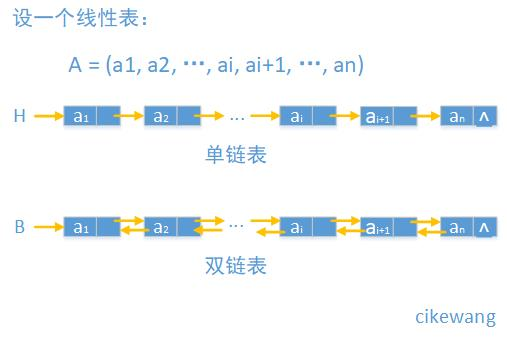
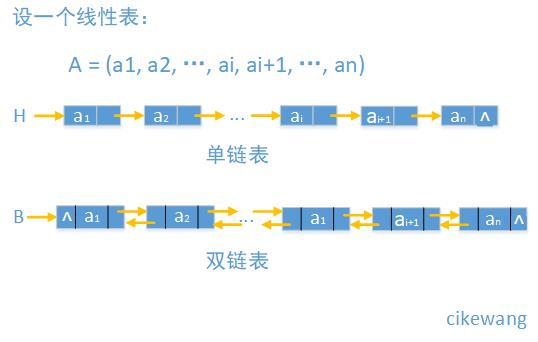
循环链表

diff --git a/02_LinkedList/README.md b/02_LinkedList/README.md
@@ -33,25 +33,33 @@ struct DNode {
 };
 ~~~
 >插入结点：设p和q分配是具有DNode*类型的指针变量，若在双链表中p结点之后插入一个q结点，则需要修改4个指针域的值
->1. 使p结点的后继结点成为q结点的后继结点
-	~~~
-	q->right = p->right;
-	~~~ 
->2. 若p结点有后继结点，则使q结点成为该结点的前驱结点
-	if(p->right) p->right->left = q;
->3. 使p结点成为q结点的前驱结点
-	q->left = p;
->4. 使q结点成为p结点的后继结点
-	p->right = q;
+>1. 使p结点的后继结点成为q结点的后继结点 : q->right = p->right; 
+>2. 若p结点有后继结点，则使q结点成为该结点的前驱结点 : 	if(p->right) p->right->left = q;
+>3. 使p结点成为q结点的前驱结点 : q->left = p;
+>4. 使q结点成为p结点的后继结点 : p->right = q;
 	
 	
 >删除结点：若删除双向链表中p指针所指向的结点，假定p结点前后都有存在着结点，则只需要修改两个指针
->1. 修改p结点的前驱结点的右指针，使之指向p结点的后继结点
-	p->left->right = p->right;
->2. 修改p结点的后继结点的左指针域，使之指向p结点的前驱结点
-	p->right->left = p->left;
->3. 回收 p 结点
-	delete p;
+>1. 修改p结点的前驱结点的右指针，使之指向p结点的后继结点 : p->left->right = p->right;
+>2. 修改p结点的后继结点的左指针域，使之指向p结点的前驱结点 : p->right->left = p->left;
+>3. 回收 p 结点 : delete p;
+	
+	
+### 带表头附加结点的线性链表
+	在线性表的链接存储中，为了方便在标题插入和删除结点，使得与在其他地方所做的操作相同，需要在表头结点（既保持第一个元素的结点）的前面增加一个结点，把它称为**表头附加结点**，此时表头附加结点的指针域指向表头结点，而表头指针由原来指向第一个元素的结点改为指向表头附加结点。
+![带表头附加结点的线性链表](https://github.com/cikewang/DataStruct/blob/master/Z_Images/02_linked_header.jpg)	
 	
 
+### 循环链表
+	单链表：让表尾结点（既最后一个结点）的指针域指向表头结点或表头附加结点
+	双链表：让表尾结点的右指针域指向表头结点或表头附加结点，而让表头结点或表头附加结点的左指针域指向表尾结点
+![循环链表](https://github.com/cikewang/DataStruct/blob/master/Z_Images/02_linked_circulation.jpg)		
+	
+
+	
+	
+	
+	
+	
+	
 	
